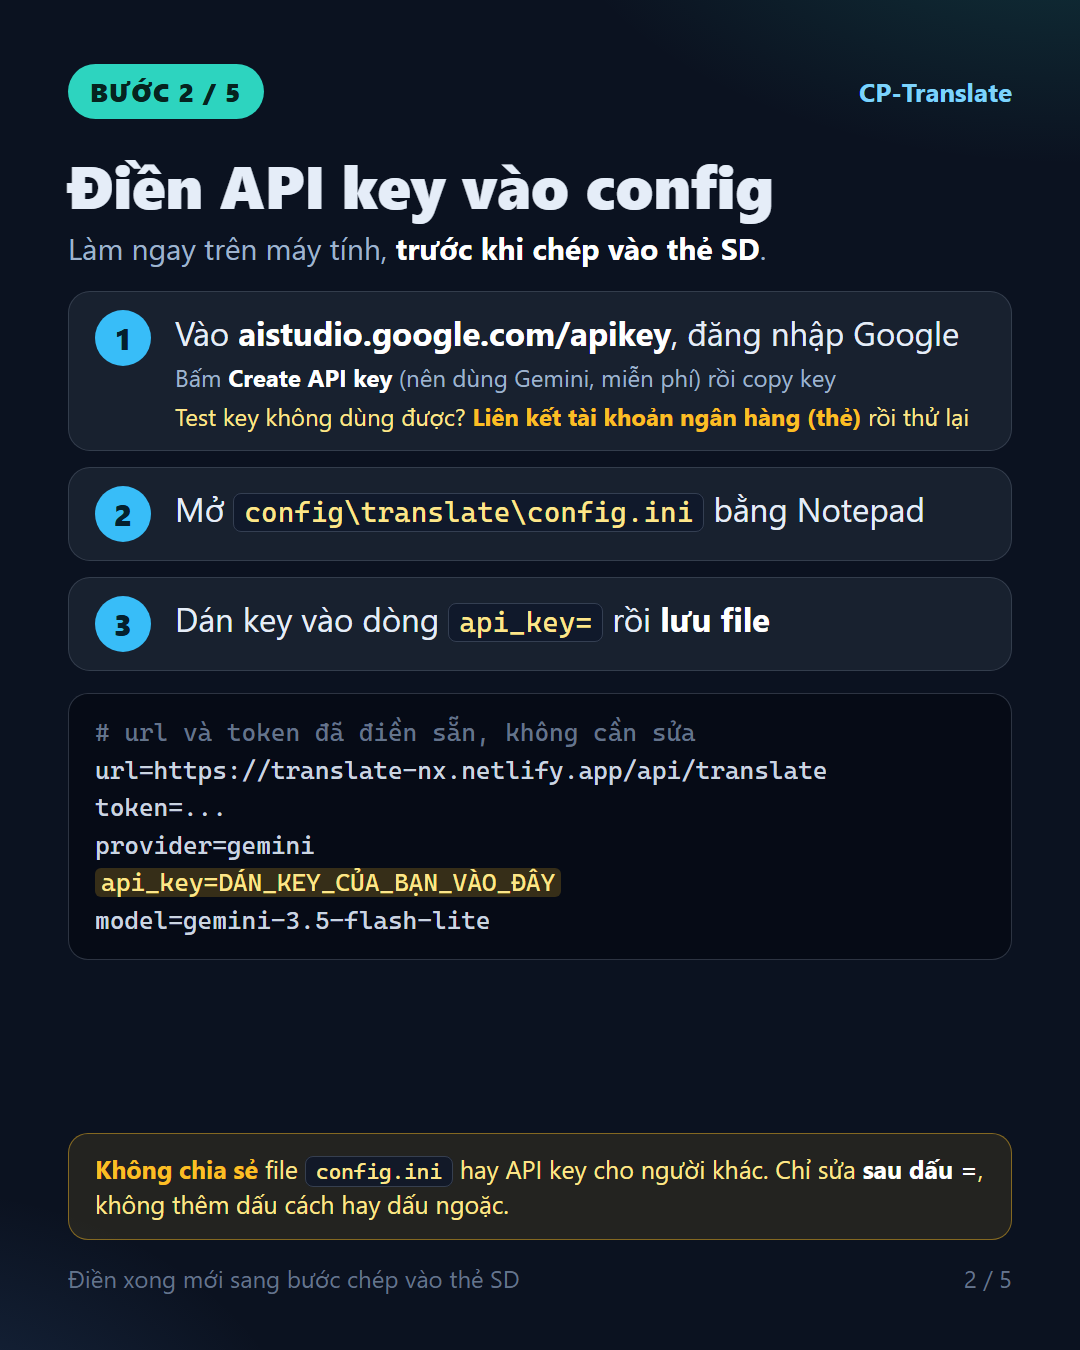
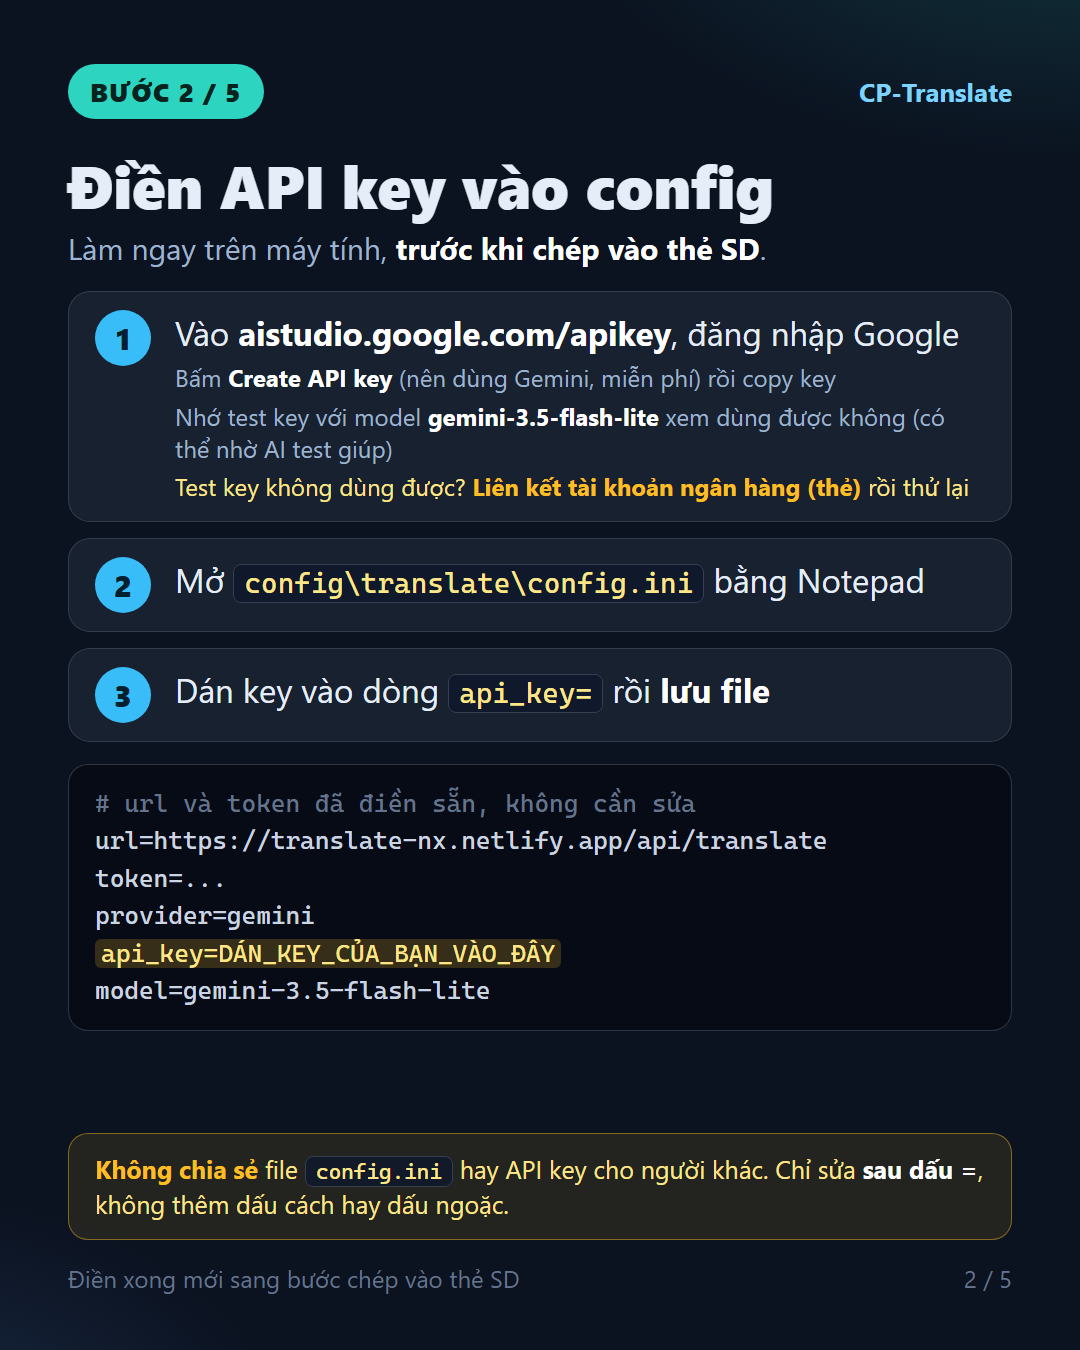
Guide step 2: remind to test the key with gemini-3.5-flash-lite

Changed region(s): [[0.0611, 0.28, 0.9472, 0.7467], [0.6722, 0.6222, 0.7639, 0.6533]]

diff --git a/docs/guide/src/step2.html b/docs/guide/src/step2.html
@@ -16,7 +16,7 @@
   <p class="sub" style="margin-bottom:22px">Làm ngay trên máy tính, <b>trước khi chép vào thẻ SD</b>.</p>
 
   <div class="steps">
-    <div class="step"><div class="num">1</div><p>Vào <b>aistudio.google.com/apikey</b>, đăng nhập Google<small>Bấm <b>Create API key</b> (nên dùng Gemini, miễn phí) rồi copy key</small><small class="bank">Test key không dùng được? <b>Liên kết tài khoản ngân hàng (thẻ)</b> rồi thử lại</small></p></div>
+    <div class="step"><div class="num">1</div><p>Vào <b>aistudio.google.com/apikey</b>, đăng nhập Google<small>Bấm <b>Create API key</b> (nên dùng Gemini, miễn phí) rồi copy key</small><small>Nhớ test key với model <b>gemini-3.5-flash-lite</b> xem dùng được không (có thể nhờ AI test giúp)</small><small class="bank">Test key không dùng được? <b>Liên kết tài khoản ngân hàng (thẻ)</b> rồi thử lại</small></p></div>
     <div class="step"><div class="num">2</div><p>Mở <code>config\translate\config.ini</code> bằng Notepad</p></div>
     <div class="step"><div class="num">3</div><p>Dán key vào dòng <code>api_key=</code> rồi <b>lưu file</b></p></div>
   </div>
